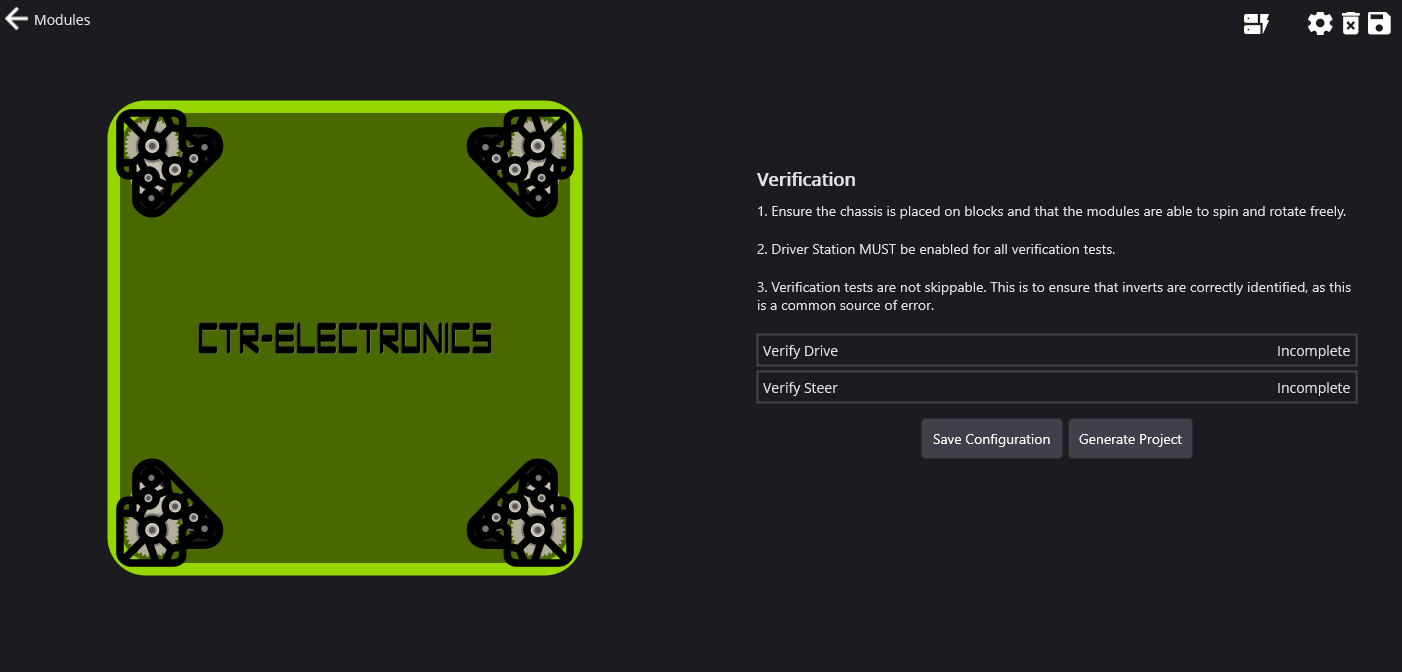
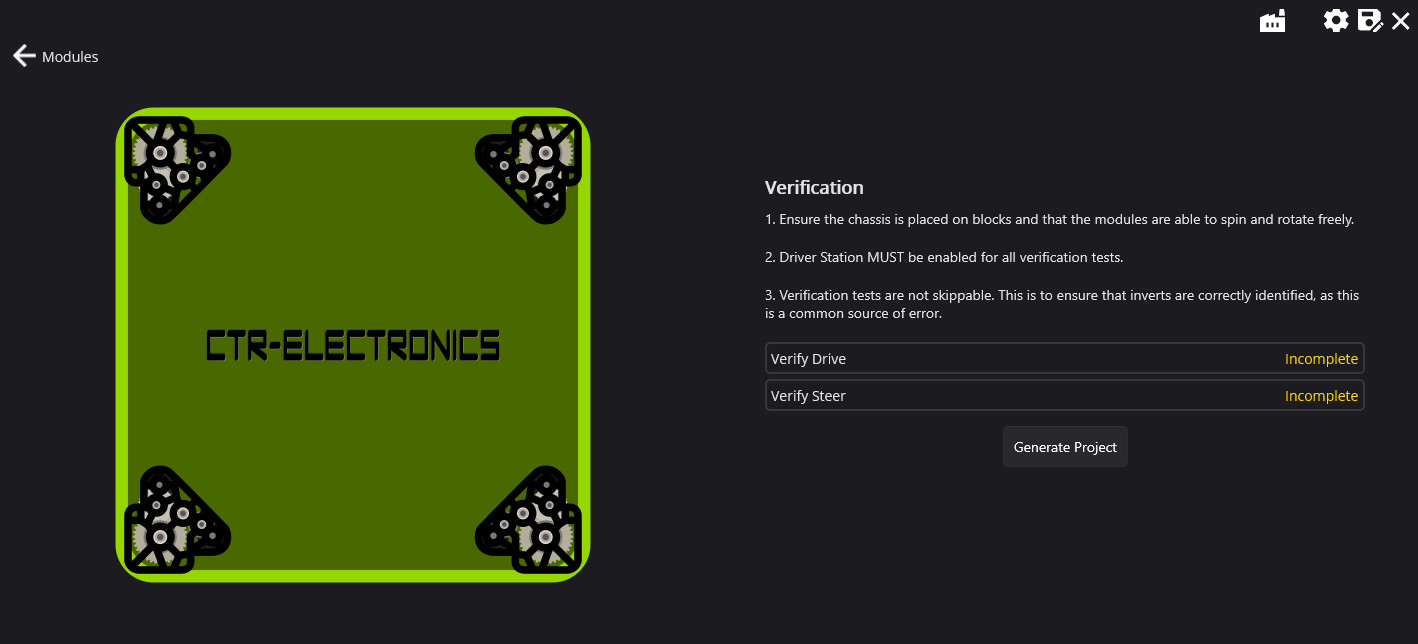
More swerve generator image updates
We removed the old Save Configuration button, users should use Export Project

diff --git a/source/docs/tuner/tuner-swerve/configuring-your-modules.rst b/source/docs/tuner/tuner-swerve/configuring-your-modules.rst
@@ -13,7 +13,7 @@ Selecting Module Devices
 
 The first step is to select the encoder and motor controllers for the selected swerve module. In the screenshot below, **Talon FX (Device ID 0)** and **Talon FX (Device ID 1)** are selected as the steer and drive motor controllers.
 
-.. tip:: If a warning icon shows where the :guilabel:`Blink` icon is, this typically means this device has already been assigned to module.
+.. tip:: If a warning icon shows where the :guilabel:`Blink` icon is, this typically means this device has already been assigned to a module.
 
 .. image:: images/swerve-selecting-devices.png
    :alt: Highlighting device selection of swerve modules picture

diff --git a/source/docs/tuner/tuner-swerve/generating-running-project.rst b/source/docs/tuner/tuner-swerve/generating-running-project.rst
@@ -6,4 +6,4 @@ Generating the Project
 
 The robot program can be generated by clicking the :guilabel:`Generate Project` button. This will open a prompt asking what team number to generate a project for.
 
-.. tip:: It's highly recommended to :guilabel:`Save Configuration`. This will save time if the robot program needs to be regenerated for any reason.
+.. tip:: It's highly recommended to export the project settings using the Save As icon in the top-right. This will save time if the robot program needs to be regenerated for any reason.
